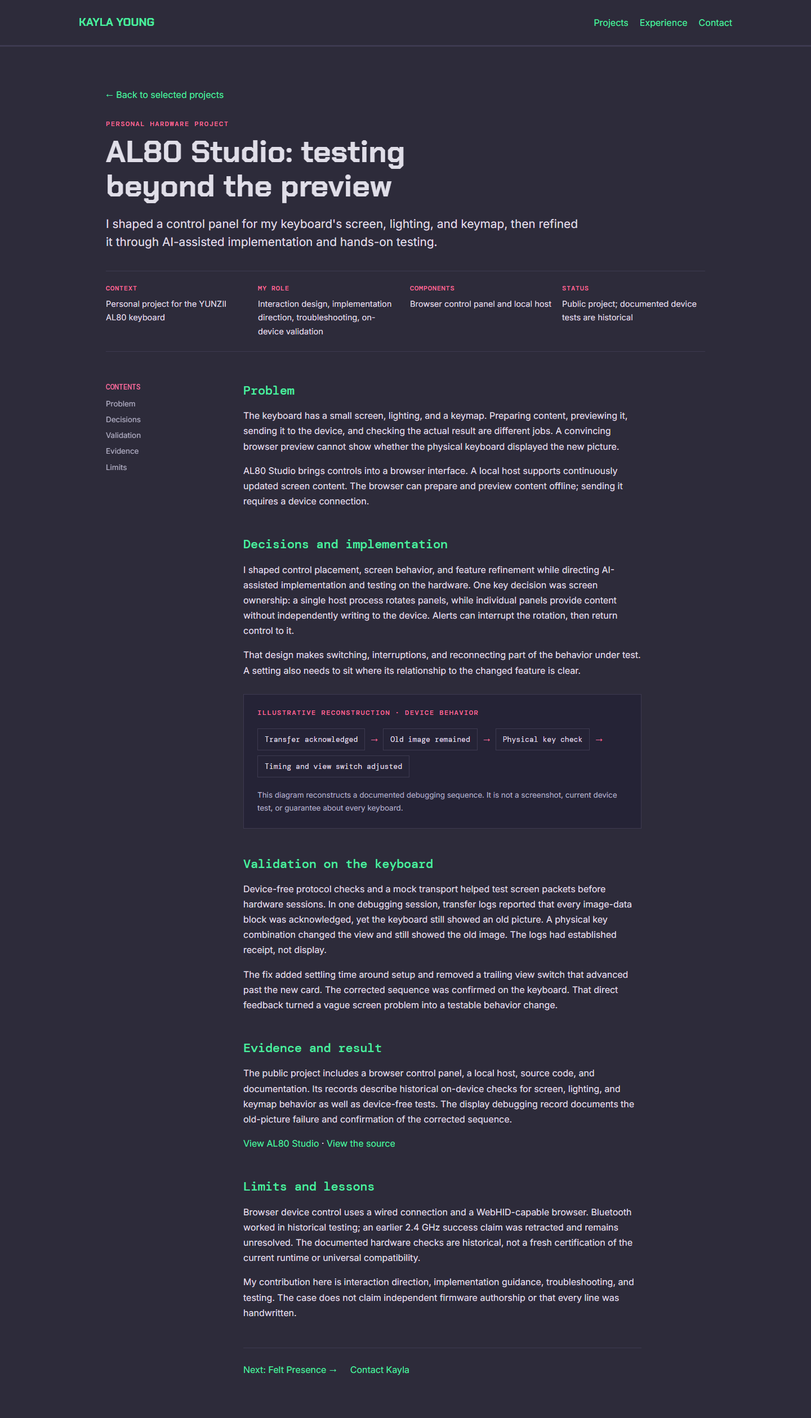
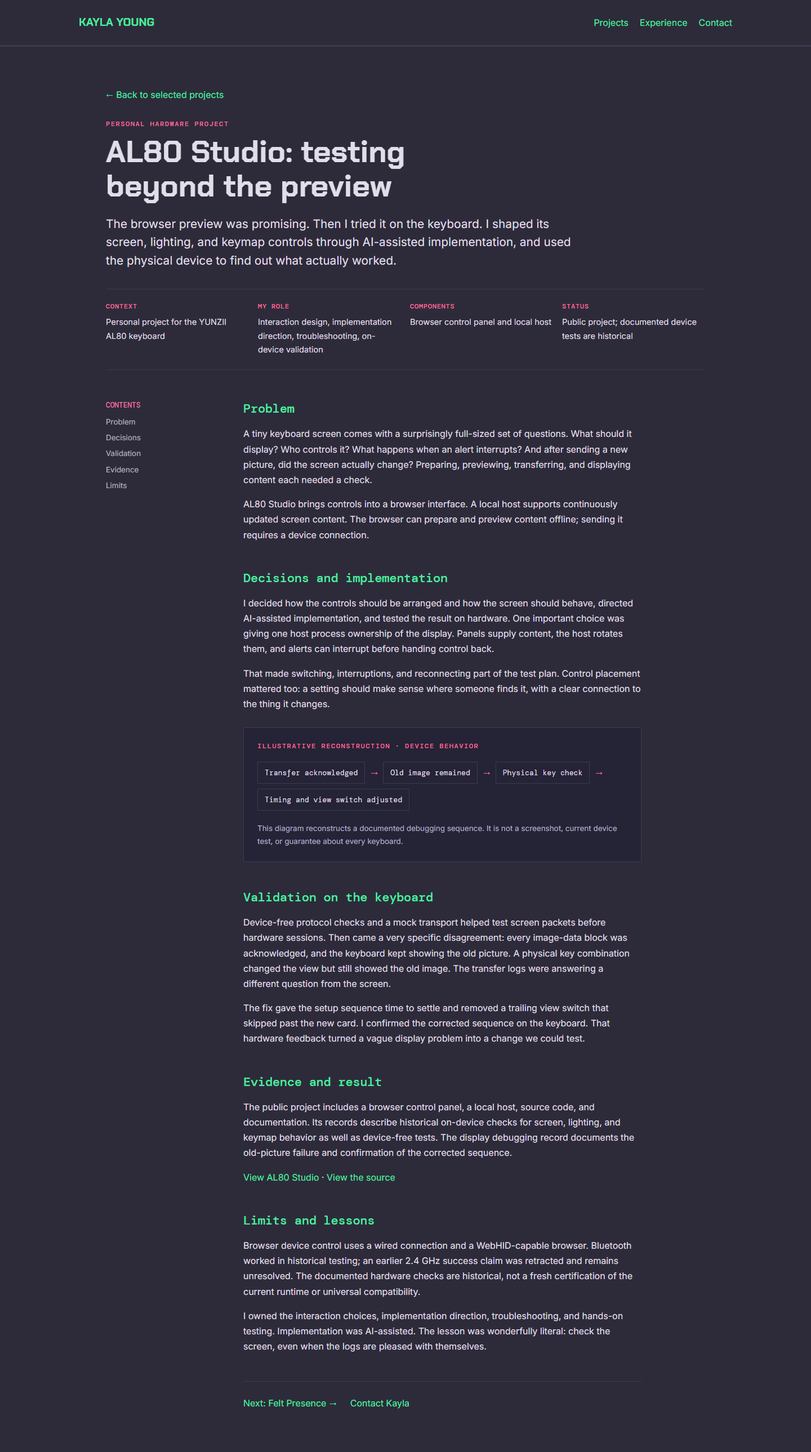
Carry confident and playful voice across portfolio and site

Changed region(s): [[0.2812, 0.2787, 0.7812, 0.9289], [0.125, 0.0619, 0.7812, 0.3406]]

diff --git a/portfolio/index.html b/portfolio/index.html
@@ -3,9 +3,9 @@
 <head>
 <meta charset="UTF-8">
 <meta name="viewport" content="width=device-width, initial-scale=1.0">
-<meta name="description" content="Kayla Young, Senior QA Engineer. Personal AI-assisted workflows, a story reader, and hands-on hardware projects.">
+<meta name="description" content="Kayla Young, Senior QA Engineer. Debugging complex software, designing AI-assisted workflows, and making useful tools with a little personality.">
 <meta property="og:title" content="Kayla Young | Senior QA Engineer">
-<meta property="og:description" content="Selected personal workflows and creative projects, with the decisions and checks behind them.">
+<meta property="og:description" content="QA investigations, AI-assisted internal tools, and creative projects. The decisions, debugging, and real-world checks behind the work.">
 <meta property="og:url" content="https://snackdriven.com/portfolio/">
 <meta property="og:type" content="website">
 <meta property="og:image" content="https://snackdriven.com/og-image.png">
@@ -39,20 +39,20 @@
 <main id="main-content">
 <section class="section" aria-labelledby="about-heading">
   <div class="section-label"><span class="section-number">01</span><h2 class="section-name" id="about-heading">About</h2></div>
-  <div class="section-content"><p class="about-text">I investigate how software behaves, shape tools around repetitive work, and build small creative experiences. Across QA, AI-assisted workflows, and personal projects, I define the behavior, direct implementation, test the result, and refine it against real use.</p></div>
+  <div class="section-content"><p class="about-text">I debug software for a living. This has done very little to discourage me from making more of it.</p><p class="about-text">With 6+ years in QA, I turn recurring headaches into practical workflows and shape projects with a little personality. I define the behavior, direct AI-assisted implementation, test the result, and refine it against real use. That might mean tracking down a data-persistence failure, rethinking a Kanban board, or deciding how unruly a haunted craft shop’s vines should be.</p></div>
 </section>
 <section class="section print-hide" id="selected-projects" aria-labelledby="projects-heading">
   <div class="section-label"><span class="section-number">02</span><h2 class="section-name" id="projects-heading">Selected Projects</h2></div>
   <div class="section-content projects-content">
-    <p class="projects-intro">I shape tools and experiences around how they’ll actually be used, from AI-assisted workflows to small creative projects. These projects show how I turn an idea into something usable, make the rough edges specific, and refine what does not fit.</p>
+    <p class="projects-intro">These are projects I’ve shaped, tried, debugged, and changed. Each case study follows a real decision: what needed to work, what got in the way, and how I checked the result.</p>
     <div class="project-list">
       <article class="project">
         <div class="project-num">01</div><div>
           <p class="project-tech">Personal QA tooling</p>
           <h3 class="project-name">Personal QA Workflow</h3>
           <p class="project-impact">Turning scattered context into work that’s ready to test.</p>
-          <p class="project-desc">I shaped a personal workflow that brings ticket context, prior findings, and release information into useful preparation packets. Through AI-assisted implementation and testing, I refined how work moves through the board, how missing context appears, and how findings are reviewed before handoff.</p>
-          <p class="project-impact">Pipeline stages replaced ownership lanes after use exposed a poor fit. Historical release documents from the wider workflow were used by colleagues.</p>
+          <p class="project-desc">Before the first test, there’s usually some detective work. I designed runbooks that bring ticket context, prior findings, and release information together, with missing inputs clearly flagged. I directed AI-assisted implementation and refined the board and review steps against real tasks.</p>
+          <p class="project-impact">A Kanban redesign that shows how work moves, plus historical release updates used by colleagues.</p>
           <p class="project-context">Workflow design · Tool configuration · Testing and refinement</p>
           <a class="project-link" href="projects/qa-workflow.html">Read the QA workflow case study <span aria-hidden="true">&rarr;</span></a>
         </div>
@@ -61,8 +61,8 @@
         <div class="project-num">02</div><div>
           <p class="project-tech">Personal hardware project</p>
           <h3 class="project-name">AL80 Studio: testing beyond the preview</h3>
-          <p class="project-desc">I shaped a control panel for my keyboard’s screen, lighting, and keymap through AI-assisted implementation and hands-on hardware testing. I refined control placement, screen ownership, and switching behavior against what the keyboard actually did.</p>
-          <p class="project-impact">Browser interface, local host, and a documented display fix confirmed on the keyboard.</p>
+          <p class="project-desc">The transfer logs said success. The keyboard kept the old picture. I shaped a control panel for its screen, lighting, and keymap, then used hands-on testing to refine the AI-assisted implementation and track down the display behavior.</p>
+          <p class="project-impact">Timing and view-switch fixes confirmed on the physical keyboard.</p>
           <p class="project-context">Interaction design · Troubleshooting · On-device validation</p>
           <a class="project-link" href="projects/al80-studio.html">Read the AL80 Studio case study <span aria-hidden="true">&rarr;</span></a>
           <a class="project-link project-link-secondary" href="https://snackdriven.github.io/al80-studio/">View the public project <span aria-hidden="true">&rarr;</span></a>
@@ -72,8 +72,8 @@
         <div class="project-num">03</div><div>
           <p class="project-tech">Personal creative project</p>
           <h3 class="project-name">Felt Presence: shaping a story reader</h3>
-          <p class="project-desc">For a fictional haunted craft shop, I directed the feel of an illustrated letter reader and refined its details through AI-assisted implementation. I asked for seasonal changes, stamps, and vines across the blank edges, then checked the result for visual balance and a page that fit before the letter opened.</p>
-          <p class="project-impact">A public reader shaped through concrete visual decisions and use checks.</p>
+          <p class="project-desc">A haunted craft shop needs atmosphere. Its letters still need to be readable. I shaped an illustrated reader through AI-assisted implementation, refining seasonal details, stamps, and wandering vines alongside the layout and reading flow.</p>
+          <p class="project-impact">A public reader with room for both the story and the slightly unruly greenery.</p>
           <p class="project-context">Creative direction · Experience requirements · Review and iteration</p>
           <a class="project-link" href="projects/felt-presence.html">Read the Felt Presence case study <span aria-hidden="true">&rarr;</span></a>
           <a class="project-link project-link-secondary" href="https://felt-presence.snackdriven.com/">View the public reader <span aria-hidden="true">&rarr;</span></a>
@@ -89,10 +89,10 @@
     <div class="job">
       <div class="job-header"><span class="job-company">Chorus Innovations</span><span class="job-separator">&middot;</span><span class="job-tenure">Apr 2023 &ndash; Present · Remote</span></div>
       <div class="job-sub"><div class="job-sub-header"><span class="job-role">Senior QA Engineer</span><span class="job-period-inline">Sep 2026 &ndash; Present</span></div>
-        <ul class="job-highlights"><li>Directed a four-day AI-assisted staging investigation. Organized 250 documented findings into 23 recurring patterns, prioritized data risks, and made coverage limits visible in the readout.</li><li>Designed personal tools and workflows for QA preparation, investigation, and evidence review. Historical release documents produced through one workflow were used by colleagues.</li></ul>
+        <ul class="job-highlights"><li>Directed a platform-wide, four-day AI-assisted staging investigation. Reviewed evidence for 250 documented findings and organized them into 23 recurring failure patterns to prioritize data risks. Kept coverage limits visible in the readout.</li></ul>
       </div>
       <div class="job-sub"><div class="job-sub-header"><span class="job-role">Senior QA Specialist</span><span class="job-period-inline">Sep 2024 &ndash; Sep 2026</span></div>
-        <ul class="job-highlights"><li>Tested complex workflows and developed reusable documentation, checklists, and tools around recurring QA work.</li></ul>
+        <ul class="job-highlights"><li>Investigated failures in conditional forms, role-based workflows, and data persistence across save and refresh cycles.</li><li>Designed a personal release-reporting workflow that combined Jira status, GitHub pull requests, and release discussions into Google Docs and Confluence updates used by colleagues. The automation was later retired.</li></ul>
       </div>
       <div class="job-sub"><div class="job-sub-header"><span class="job-role">Software QA Specialist</span><span class="job-period-inline">Apr 2023 &ndash; Sep 2024</span></div>
         <ul class="job-highlights"><li>Tested applications across a React and GraphQL stack and a legacy no-code platform.</li></ul>
@@ -101,9 +101,9 @@
     <div class="job">
       <div class="job-header"><span class="job-company">Ultranauts Inc</span><span class="job-separator">&middot;</span><span class="job-tenure">Feb 2020 &ndash; Feb 2023 · Remote</span></div>
       <div class="job-sub"><div class="job-sub-header"><span class="job-role">Software Quality Engineer II</span><span class="job-period-inline">Oct 2021 &ndash; Feb 2023</span></div>
-        <ul class="job-highlights"><li>Scoped exploratory and regression coverage across client products with multi-role workflows and complex business rules.</li><li>Assessed where automation would provide useful coverage and where its maintenance cost called for another approach.</li></ul>
+        <ul class="job-highlights"><li>Planned exploratory and regression testing for multi-role workflows and complex business rules.</li><li>Identified where automation would justify its maintenance cost and where another approach made more sense.</li></ul>
       </div>
-      <div class="job-sub print-hide"><div class="job-sub-header"><span class="job-role">SQA Engineer I &amp; Tester</span><span class="job-period-inline">Feb 2020 &ndash; Sep 2021</span></div>
+      <div class="job-sub print-hide"><div class="job-sub-header"><span class="job-role">QA Tester / Software QA Engineer I</span><span class="job-period-inline">Feb 2020 &ndash; Sep 2021</span></div>
         <ul class="job-highlights"><li>Manual and exploratory testing across multiple client projects.</li></ul>
       </div>
     </div>
@@ -113,15 +113,15 @@
   <div class="section-label"><span class="section-number">04</span><h2 class="section-name" id="stack-heading">Stack</h2></div>
   <div class="section-content stack-content">
     <div class="skills-grid">
-      <div class="skills-category"><h3 class="skills-category-name">Implementation</h3><ul class="skills-list"><li>AI-assisted implementation</li><li>Tool configuration</li><li>Testing and refinement</li></ul></div>
-      <div class="skills-category"><h3 class="skills-category-name">Workflows &amp; APIs</h3><ul class="skills-list"><li>Agentic workflows</li><li>Claude and Gemini APIs</li><li>MCP and GraphQL</li></ul></div>
-      <div class="skills-category"><h3 class="skills-category-name">Testing &amp; Toolchain</h3><ul class="skills-list"><li>Playwright, Selenium, Cypress</li><li>Git, Jira, GitHub Actions</li><li>Docker, Jenkins, Kubernetes</li></ul></div>
+      <div class="skills-category"><h3 class="skills-category-name">AI Workflows</h3><ul class="skills-list"><li>Workflow design and orchestration</li><li>AI-assisted implementation</li><li>Output verification and tool configuration</li></ul></div>
+      <div class="skills-category"><h3 class="skills-category-name">Quality &amp; Debugging</h3><ul class="skills-list"><li>Exploratory and regression testing</li><li>Defect investigation and test planning</li><li>Evidence review and risk prioritization</li></ul></div>
+      <div class="skills-category"><h3 class="skills-category-name">Tools &amp; Technologies</h3><ul class="skills-list"><li>Playwright for AI-assisted investigation</li><li>Git, Jira, GitHub Actions, GraphQL</li><li>Model Context Protocol (MCP)</li><li>SQL familiarity</li></ul></div>
     </div>
   </div>
 </section>
 <section class="section print-hide" id="section-target" aria-labelledby="looking-heading">
   <div class="section-label"><span class="section-number">05</span><h2 class="section-name" id="looking-heading">Looking For</h2></div>
-  <div class="section-content"><p class="about-text">I'm interested in internal tools, AI workflow implementation, and QA roles with room to build practical systems around the work. I'm based in Arkansas and looking for fully remote work.</p>
+  <div class="section-content"><p class="about-text">Give me a workflow that keeps tripping people up, a tool with an awkward edge, or software that behaves differently from its promises. I like shaping the solution, trying it, and making it better.</p><p class="about-text">I'm interested in hands-on AI workflow and internal-tool roles grounded in QA judgment, and QA roles with room to build. Based in Arkansas; looking for fully remote work.</p>
   <p class="contact-links"><a href="mailto:kayla@snackdriven.com">Email Kayla</a> · <a href="resume/kayla-young-resume.pdf">Résumé PDF</a></p></div>
 </section>
 </main>

diff --git a/portfolio/projects/qa-workflow.html b/portfolio/projects/qa-workflow.html
@@ -16,18 +16,18 @@
 <a class="back-link" href="/portfolio/#selected-projects">&larr; Back to selected projects</a>
 <p class="case-kicker">Personal QA tooling</p>
 <h1>Turning scattered context into reviewable QA work</h1>
-<p class="case-lead">I shaped a personal workflow system that brings ticket context, prior findings, and release information into the preparation and review of QA work.</p>
+<p class="case-lead">Before the first test came the scavenger hunt. I designed a personal workflow that brings ticket context, prior findings, and release information into runbooks I could actually work from.</p>
 <dl class="case-facts"><div><dt>Context</dt><dd>Personal tooling for my QA work</dd></div><div><dt>My role</dt><dd>Workflow design, tool configuration, AI-assisted implementation direction, testing</dd></div><div><dt>Evidence</dt><dd>Ticket-specific runbooks and historical release documents used by colleagues</dd></div><div><dt>Status</dt><dd>Workflows evolved; release-documentation automation retired</dd></div></dl>
 <div class="case-layout">
 <nav class="contents" aria-label="On this page"><h2>Contents</h2><a href="#problem">Problem</a><a href="#decisions">Decisions</a><a href="#validation">Validation</a><a href="#evidence">Evidence</a><a href="#limits">Limits</a></nav>
 <article class="case-body">
-<section id="problem"><h2>Problem</h2><p>QA work often starts before the first test. The relevant context can sit across a ticket, a code change, a discussion, a previous finding, and release information. Reassembling it for each task takes attention away from the investigation.</p><p>I wanted a preparation packet I could work from: behavior under test, relevant history, likely regression areas, and an honest account of anything the system could not retrieve.</p></section>
-<section id="decisions"><h2>Decisions and implementation</h2><p>I defined the workflow behavior, configured the tools, directed AI-assisted implementation, and refined the results against real tasks. Related pieces included preparation and investigation tools, ticket-specific runbooks, evidence-review views, and practices for shared artifacts. They support one personal workflow rather than separate headline products.</p><p>The central rule was that an unavailable source must remain visibly unavailable. It cannot become an empty result that implies nothing relevant exists. I also kept preparation, investigation, independent review, and a human decision as separate steps.</p>
+<section id="problem"><h2>Problem</h2><p>A ticket rarely arrives with everything needed to test it. The useful context might be in a code change, an old finding, a discussion, or a release note. I kept having to reconstruct the task before I could investigate it.</p><p>I wanted that groundwork in one usable packet: what should happen, what had gone wrong before, where to look for regressions, and which sources the system could not check. Missing context needed a label, not a confident guess.</p></section>
+<section id="decisions"><h2>Decisions and implementation</h2><p>I defined the behavior, configured the tools, and directed AI-assisted implementation. Then I tried the results on real tasks. Runbooks, investigation tools, evidence-review views, and shared-artifact practices became parts of the same workflow, each with a job to earn.</p><p>The central rule was simple: say when a source could not be checked. An unavailable system and an empty result mean different things. Preparation, investigation, independent review, and the human decision also stayed separate, so a finished packet could not quietly become a finished test.</p>
 <figure><p class="figure-label">Illustrative reconstruction · No workplace data</p><div class="flow" aria-label="Source context leads to preparation, investigation, independent review, and a human decision"><span>Source context</span><b aria-hidden="true">&rarr;</b><span>Preparation</span><b aria-hidden="true">&rarr;</b><span>Investigation</span><b aria-hidden="true">&rarr;</b><span>Independent review</span><b aria-hidden="true">&rarr;</b><span>Human decision</span></div><div class="reconstruction"><div><strong>Retrieved</strong>Relevant prior behavior is attached to the packet.</div><div><strong>Unavailable</strong>One source could not be checked; the packet says so.</div><div><strong>Open coverage</strong>A persistence check still needs a real save and readback.</div></div><figcaption>A fictional packet shows the three states a reviewer needs to distinguish. It is a diagram of the workflow, not a screenshot or evidence of a specific ticket.</figcaption></figure>
-<p>For shared outputs, I used review before external action, one writer for the current artifact, and recovery steps when work stopped partway through. These were practices to test and revise as the tools changed.</p><p>The QA Kanban view also changed after use: ownership-based lanes gave way to pipeline stages so the board could show how work moved. Stale, missing, disconnected, and genuinely empty data needed distinct states. I removed believable sample cards from the live cold-start view so examples could not look like actual work.</p></section>
-<section id="validation"><h2>Validation and refinement</h2><p>Real use exposed gaps. In one review, shortened comment text overstated what the investigation notes supported. I changed the review step to compare each claim against the underlying notes before the comment went out. A polished summary only helps when its claims still match the evidence.</p><p>I also asked for additional random trials after a repaired pilot passed its initial sample. When a separate impact viewer went unused, I moved its information into an existing work surface. A parallel-work pipeline was retired when its overhead did not earn a place in the workflow.</p></section>
-<section id="evidence"><h2>Evidence and output</h2><p>The system produced ticket-specific runbooks and review views. A historical release-documentation workflow assembled scope, status, and merge information into stakeholder documents distributed through Google Docs and Confluence. Colleagues used those documents.</p><p>My QA acceptance verdicts in those documents were user-authored. The surrounding prose was generated or aggregated through the AI-assisted workflow. Use of the documents does not imply coworkers installed or adopted the underlying tools.</p></section>
-<section id="limits"><h2>Limits and lessons</h2><p>This was personal tooling, not organization-wide infrastructure. The release-documentation automation was later retired. Its useful output also revealed maintenance issues, including stale information and environment distinctions that needed correction.</p><p>The practical test for a packet is whether I can begin work from it and see what it has not checked. That is why the review and missing-input states matter as much as the retrieval itself.</p></section>
+<p>For shared outputs, I used review before external action, one writer for the current artifact, and recovery steps when work stopped partway through. These were practices to test and revise as the tools changed.</p><p>The Kanban board got a rethink too. Ownership lanes looked organized but did a poor job of showing progress, so I changed them to pipeline stages. Stale, missing, disconnected, and empty data each needed their own state. I also removed convincing sample cards from the live starting view. Fictional work should not look ready to pick up.</p></section>
+<section id="validation"><h2>Validation and refinement</h2><p>One review caught a small-looking change with a large consequence: shortening a comment had made its claims stronger than the investigation notes. I changed the review step to compare each claim with its source before the comment went out. Brevity had to keep the facts attached.</p><p>A repaired pilot passing its original sample was a good start; I asked for more random trials. An impact viewer went unused, so its information moved into a surface I already used. A parallel-work pipeline was retired when its overhead outweighed its help. Sometimes the useful improvement was one less thing to maintain.</p></section>
+<section id="evidence"><h2>Evidence and output</h2><p>The workflow produced ticket-specific runbooks and review views. Its historical release-reporting tools brought Jira status, GitHub pull requests, and release discussions into scope and merge updates distributed through Google Docs and Confluence. Colleagues used those documents to follow the release.</p><p>I wrote the QA acceptance verdicts. The surrounding prose was generated or aggregated through the AI-assisted workflow. The shared output was the document; the tools remained personally operated.</p></section>
+<section id="limits"><h2>Limits and lessons</h2><p>These were tools I operated for my QA work. The release-documentation automation was later retired, and its history includes stale information and environment distinctions that needed correction. Useful output still needed upkeep.</p><p>The test I keep coming back to: can I start work from this packet, and can I see where its knowledge runs out? Retrieval, review, and honest gaps all have to work together.</p></section>
 <footer class="case-footer"><a href="al80-studio.html">Next: AL80 Studio &rarr;</a><a href="mailto:kayla@snackdriven.com">Contact Kayla</a></footer>
 </article></div></main>
 </body></html>

diff --git a/portfolio/projects/platform-investigation.html b/portfolio/projects/platform-investigation.html
@@ -16,19 +16,19 @@
 <a class="back-link" href="/portfolio/#selected-projects">&larr; Back to selected projects</a>
 <p class="case-kicker">Professional QA investigation</p>
 <h1>Making a platform-wide QA investigation usable</h1>
-<p class="case-lead">I directed and checked an AI-assisted staging investigation, then organized the findings around recurring patterns, data risks, and unresolved decisions.</p>
+<p class="case-lead">A platform-wide investigation needs a useful ending. I directed an AI-assisted staging pass, reviewed the evidence, and turned a large set of findings into patterns, data risks, and decisions for product and engineering.</p>
 <dl class="case-facts"><div><dt>Scope</dt><dd>Four-day staging pass; one QA account, Chromium, seeded data</dd></div><div><dt>My role</dt><dd>Test strategy, investigation direction, evidence review, reporting</dd></div><div><dt>Findings</dt><dd>250 documented findings in 23 recurring patterns</dd></div><div><dt>Handoff</dt><dd>Five decisions routed to product and engineering owners</dd></div></dl>
 <div class="case-layout">
 <nav class="contents" aria-label="On this page"><h2>Contents</h2><a href="#problem">Problem</a><a href="#decisions">Decisions</a><a href="#validation">Validation</a><a href="#evidence">Evidence</a><a href="#limits">Limits</a></nav>
 <article class="case-body">
-<section id="problem"><h2>Problem</h2><p>A new platform had reached staging before launch decisions. An undifferentiated issue list would not tell readers which observations threatened data, which appeared to share a cause, or where intended behavior still needed a product decision.</p><p>The investigation needed a readout that made those relationships visible, along with the limits of what had actually been tested.</p></section>
-<section id="decisions"><h2>Decisions and implementation</h2><p>I organized the pass across application sections, administration settings, and cross-page behavior. I directed AI-assisted browser harnesses and checked their work. The investigation looked beyond an initial save to refresh, stale forms, repeated actions, and state changes elsewhere.</p><p>I grouped the 250 documented findings into 23 patterns and prioritized data risks for the handoff. The readout separated observed behavior from questions about intended behavior. Five unresolved decisions went to product and engineering owners.</p>
+<section id="problem"><h2>Problem</h2><p>A new platform had reached staging ahead of launch decisions. The team needed to know which observations threatened data, which appeared connected, and which depended on a product decision about intended behavior. A long list of issues would leave that sorting work to the reader.</p><p>My job was to make the investigation usable: show the relationships, prioritize the risks, and be clear about where coverage stopped.</p></section>
+<section id="decisions"><h2>Decisions and implementation</h2><p>I organized the pass across application sections, administration settings, and cross-page behavior. I directed AI-assisted browser harnesses and checked their work. A Save click was the beginning of the check: refresh, stale forms, repeated actions, and changes elsewhere could tell a different story.</p><p>I grouped the 250 documented findings into 23 patterns and prioritized data risks for the handoff. The readout separated observed behavior from questions about intended behavior. Five unresolved decisions went to product and engineering owners.</p>
 <figure><p class="figure-label">Illustrative reconstruction · No product data</p><div class="reconstruction"><div><strong>Finding</strong>A saved setting appears to revert after a refresh.</div><div><strong>Evidence needed</strong>Record the save, refresh, and readback as separate observations.</div><div><strong>Risk</strong>A user may rely on a state that did not persist.</div><div><strong>Open decision</strong>Who defines the intended persistence behavior?</div><div><strong>Untested scope</strong>Other accounts and devices are outside this pass.</div></div><figcaption>This fictional readout demonstrates the reporting structure. It is not a product screenshot or an actual finding.</figcaption></figure></section>
-<section id="validation"><h2>Validation and correction</h2><p>I used repeat checks and a second review that tried to disprove higher-impact findings. Some claims changed: configuration checks led to withdrawals, and one result moved to a flaky classification when a second run did not establish it. A persistence claim required a real save and readback before it could be stated as stored data.</p><p>The footage-to-description audit kept full matches separate from partial support and steps the recording did not show. A clip showing a Save click, for example, would not by itself prove persistence after reload.</p></section>
+<section id="validation"><h2>Validation and correction</h2><p>I repeated checks and used a second review to try to disprove the higher-impact findings. Configuration checks led to withdrawals, and one result became flaky when another run did not establish it. A claim about stored data needed an actual save and readback. Correcting a finding was part of the investigation.</p><p>The footage audit separated full matches, partial support, and steps the recording never showed. A video of a Save click proves the click. A persistence claim still needs the reload and readback.</p></section>
 <section id="evidence"><h2>Evidence and results</h2><p>The four-day pass produced 250 documented findings organized into 23 patterns. The readout highlighted 22 data risks covering 53 flagged issues and routed five unresolved decisions. It gave readers a prioritized summary with detailed evidence behind it.</p>
 <figure><p class="figure-label">Evidence audit · 314 rows</p><div class="audit-bar" role="img" aria-label="Of 314 evidence rows, 239 matched, 55 were partially supported, and 20 were not shown on video"><span></span><span></span><span></span></div><div class="audit-key"><span>239 matched</span><span>55 partial</span><span>20 not shown on video</span></div><figcaption>These 314 audit rows are evidence rows, not additional bugs. The split does not establish full video verification for every finding.</figcaption></figure>
-<p>The readout was circulated to engineering leadership. This case ends at investigation and handoff; it does not claim completed fixes.</p></section>
-<section id="limits"><h2>Limits and next pass</h2><p>Coverage used one QA account, Chromium, and seeded staging data. Two windows on one account did not establish cross-user behavior. The work did not establish cross-device behavior or full platform coverage.</p><p>A next pass could turn the recurring patterns into repeatable probes, include deferred coverage, and identify decision owners before testing begins. The documented findings guide that work; they do not replace it.</p></section>
+<p>The readout was circulated to engineering leadership. The result documented here is the investigation and handoff; completed fixes remain outside this case study.</p></section>
+<section id="limits"><h2>Limits and next pass</h2><p>Coverage used one QA account, Chromium, and seeded staging data. Two windows on one account did not establish cross-user behavior. The work did not establish cross-device behavior or full platform coverage.</p><p>The next useful move would be to turn those recurring patterns into repeatable probes, include the deferred coverage, and identify decision owners earlier. The findings give that pass a starting point, with the unfinished work still visible.</p></section>
 <footer class="case-footer"><a href="al80-studio.html">Next: AL80 Studio &rarr;</a><a href="mailto:kayla@snackdriven.com">Contact Kayla</a></footer>
 </article></div></main>
 </body></html>

diff --git a/portfolio/projects/al80-studio.html b/portfolio/projects/al80-studio.html
@@ -16,17 +16,17 @@
 <a class="back-link" href="/portfolio/#selected-projects">&larr; Back to selected projects</a>
 <p class="case-kicker">Personal hardware project</p>
 <h1>AL80 Studio: testing beyond the preview</h1>
-<p class="case-lead">I shaped a control panel for my keyboard's screen, lighting, and keymap, then refined it through AI-assisted implementation and hands-on testing.</p>
+<p class="case-lead">The browser preview was promising. Then I tried it on the keyboard. I shaped its screen, lighting, and keymap controls through AI-assisted implementation, and used the physical device to find out what actually worked.</p>
 <dl class="case-facts"><div><dt>Context</dt><dd>Personal project for the YUNZII AL80 keyboard</dd></div><div><dt>My role</dt><dd>Interaction design, implementation direction, troubleshooting, on-device validation</dd></div><div><dt>Components</dt><dd>Browser control panel and local host</dd></div><div><dt>Status</dt><dd>Public project; documented device tests are historical</dd></div></dl>
 <div class="case-layout">
 <nav class="contents" aria-label="On this page"><h2>Contents</h2><a href="#problem">Problem</a><a href="#decisions">Decisions</a><a href="#validation">Validation</a><a href="#evidence">Evidence</a><a href="#limits">Limits</a></nav>
 <article class="case-body">
-<section id="problem"><h2>Problem</h2><p>The keyboard has a small screen, lighting, and a keymap. Preparing content, previewing it, sending it to the device, and checking the actual result are different jobs. A convincing browser preview cannot show whether the physical keyboard displayed the new picture.</p><p>AL80 Studio brings controls into a browser interface. A local host supports continuously updated screen content. The browser can prepare and preview content offline; sending it requires a device connection.</p></section>
-<section id="decisions"><h2>Decisions and implementation</h2><p>I shaped control placement, screen behavior, and feature refinement while directing AI-assisted implementation and testing on the hardware. One key decision was screen ownership: a single host process rotates panels, while individual panels provide content without independently writing to the device. Alerts can interrupt the rotation, then return control to it.</p><p>That design makes switching, interruptions, and reconnecting part of the behavior under test. A setting also needs to sit where its relationship to the changed feature is clear.</p>
+<section id="problem"><h2>Problem</h2><p>A tiny keyboard screen comes with a surprisingly full-sized set of questions. What should it display? Who controls it? What happens when an alert interrupts? And after sending a new picture, did the screen actually change? Preparing, previewing, transferring, and displaying content each needed a check.</p><p>AL80 Studio brings controls into a browser interface. A local host supports continuously updated screen content. The browser can prepare and preview content offline; sending it requires a device connection.</p></section>
+<section id="decisions"><h2>Decisions and implementation</h2><p>I decided how the controls should be arranged and how the screen should behave, directed AI-assisted implementation, and tested the result on hardware. One important choice was giving one host process ownership of the display. Panels supply content, the host rotates them, and alerts can interrupt before handing control back.</p><p>That made switching, interruptions, and reconnecting part of the test plan. Control placement mattered too: a setting should make sense where someone finds it, with a clear connection to the thing it changes.</p>
 <figure><p class="figure-label">Illustrative reconstruction · Device behavior</p><div class="flow" aria-label="Transfer acknowledgment leads to a physical display check, then a timing and view-switch change"><span>Transfer acknowledged</span><b aria-hidden="true">&rarr;</b><span>Old image remained</span><b aria-hidden="true">&rarr;</b><span>Physical key check</span><b aria-hidden="true">&rarr;</b><span>Timing and view switch adjusted</span></div><figcaption>This diagram reconstructs a documented debugging sequence. It is not a screenshot, current device test, or guarantee about every keyboard.</figcaption></figure></section>
-<section id="validation"><h2>Validation on the keyboard</h2><p>Device-free protocol checks and a mock transport helped test screen packets before hardware sessions. In one debugging session, transfer logs reported that every image-data block was acknowledged, yet the keyboard still showed an old picture. A physical key combination changed the view and still showed the old image. The logs had established receipt, not display.</p><p>The fix added settling time around setup and removed a trailing view switch that advanced past the new card. The corrected sequence was confirmed on the keyboard. That direct feedback turned a vague screen problem into a testable behavior change.</p></section>
+<section id="validation"><h2>Validation on the keyboard</h2><p>Device-free protocol checks and a mock transport helped test screen packets before hardware sessions. Then came a very specific disagreement: every image-data block was acknowledged, and the keyboard kept showing the old picture. A physical key combination changed the view but still showed the old image. The transfer logs were answering a different question from the screen.</p><p>The fix gave the setup sequence time to settle and removed a trailing view switch that skipped past the new card. I confirmed the corrected sequence on the keyboard. That hardware feedback turned a vague display problem into a change we could test.</p></section>
 <section id="evidence"><h2>Evidence and result</h2><p>The public project includes a browser control panel, a local host, source code, and documentation. Its records describe historical on-device checks for screen, lighting, and keymap behavior as well as device-free tests. The display debugging record documents the old-picture failure and confirmation of the corrected sequence.</p><p><a href="https://snackdriven.github.io/al80-studio/">View AL80 Studio</a> · <a href="https://github.com/snackdriven/al80-studio">View the source</a></p></section>
-<section id="limits"><h2>Limits and lessons</h2><p>Browser device control uses a wired connection and a WebHID-capable browser. Bluetooth worked in historical testing; an earlier 2.4 GHz success claim was retracted and remains unresolved. The documented hardware checks are historical, not a fresh certification of the current runtime or universal compatibility.</p><p>My contribution here is interaction direction, implementation guidance, troubleshooting, and testing. The case does not claim independent firmware authorship or that every line was handwritten.</p></section>
+<section id="limits"><h2>Limits and lessons</h2><p>Browser device control uses a wired connection and a WebHID-capable browser. Bluetooth worked in historical testing; an earlier 2.4 GHz success claim was retracted and remains unresolved. The documented hardware checks are historical, not a fresh certification of the current runtime or universal compatibility.</p><p>I owned the interaction choices, implementation direction, troubleshooting, and hands-on testing. Implementation was AI-assisted. The lesson was wonderfully literal: check the screen, even when the logs are pleased with themselves.</p></section>
 <footer class="case-footer"><a href="felt-presence.html">Next: Felt Presence &rarr;</a><a href="mailto:kayla@snackdriven.com">Contact Kayla</a></footer>
 </article></div></main>
 </body></html>

diff --git a/portfolio/projects/felt-presence.html b/portfolio/projects/felt-presence.html
@@ -16,17 +16,17 @@
 <a class="back-link" href="/portfolio/#selected-projects">&larr; Back to selected projects</a>
 <p class="case-kicker">Personal creative project</p>
 <h1>Felt Presence: shaping a story reader</h1>
-<p class="case-lead">I directed the experience of an illustrated letter reader for a fictional haunted craft shop, then refined its visual details and page behavior through review and AI-assisted implementation.</p>
+<p class="case-lead">A fictional haunted craft shop needed somewhere to send its letters. I shaped an illustrated reader with seasonal details, a little wandering greenery, and a reading flow that could hold the atmosphere together.</p>
 <dl class="case-facts"><div><dt>Context</dt><dd>Personal story and reader project</dd></div><div><dt>My role</dt><dd>Creative direction, experience requirements, implementation direction, review</dd></div><div><dt>Focus</dt><dd>Seasonal atmosphere, layout, and reading flow</dd></div><div><dt>Status</dt><dd><a href="https://felt-presence.snackdriven.com/">Public reader</a>; private source and story archive</dd></div></dl>
 <div class="case-layout">
 <nav class="contents" aria-label="On this page"><h2>Contents</h2><a href="#problem">Problem</a><a href="#decisions">Decisions</a><a href="#validation">Validation</a><a href="#evidence">Evidence</a><a href="#limits">Limits</a></nav>
 <article class="case-body">
-<section id="problem"><h2>Problem</h2><p>A letter from a tiny haunted craft shop needed a place to be read. I wanted the reader to carry the shop's handmade, seasonal character without making the page harder to use. The unopened letter and its illustration needed room to breathe, and the page needed to fit before the reader opened the letter.</p></section>
-<section id="decisions"><h2>Decisions and implementation</h2><p>I set the experience requirements and directed AI-assisted implementation. For the autumn version, I asked for stamps, vines across the blank edges, more transparency, and fall colors. The first vine treatment felt too symmetrical and too confined to the corners, so I asked for looser growth, including a curl around a lower corner.</p><p>I also wanted the date and time to have one clear home. Repeated labels competed with the letter, so I consolidated them and removed unwanted scrolling from the unopened view. These were choices about what a reader sees first and how easily they can reach the story.</p>
+<section id="problem"><h2>Problem</h2><p>The reader needed to feel like part of the shop: handmade, seasonal, and a little odd. It also needed to work as a page. The unopened letter and illustration needed room, and the opening view needed to fit without an unnecessary scroll. Even a haunted craft shop has layout requirements.</p></section>
+<section id="decisions"><h2>Decisions and implementation</h2><p>I set the experience requirements and directed AI-assisted implementation. For autumn, that meant stamps, fall colors, and vines reaching into the blank edges. The first vines were very well behaved: symmetrical and tucked into corners. I asked for looser growth, softer transparency, and a curl around a lower corner.</p><p>The date and time needed one clear home. I consolidated repeated labels and removed the extra scroll in the unopened view, so the letter could be the first thing a reader noticed. The decorative decisions had to survive the actual opening and reading flow.</p>
 <figure><p class="figure-label">Illustrative reconstruction · No private story art</p><div class="reconstruction"><div><strong>Decision</strong>Let seasonal details reach the blank edges without crowding the letter.</div><div><strong>Iteration</strong>Reduce symmetry, soften the vines, and add warmer fall color.</div><div><strong>Check</strong>Review the unopened page at its intended size and remove scrolling that interrupted the opening view.</div></div><figcaption>This diagram summarizes a documented design cycle. It is not a screenshot of the reader or an example of private artwork.</figcaption></figure></section>
-<section id="validation"><h2>Validation and refinement</h2><p>I reviewed the page as an experience rather than treating each visual element as a separate deliverable. The vines needed to feel present across the empty space, but the letter still had to remain the focus. I checked the layout before opening a letter, caught the extra scroll, and asked for the date and time to be consolidated.</p><p>The result came from a sequence of specific requests, review, and correction. The check was whether the reader felt coherent and usable, not whether a first generated version looked decorative.</p></section>
+<section id="validation"><h2>Validation and refinement</h2><p>I checked the whole experience: the unopened page, the moment of opening, and the letter itself. The vines needed enough presence to feel intentional while leaving the story in charge. That review caught the extra scroll and competing date and time labels.</p><p>The progress came from specific requests, looking at the result, and asking for another change. A convincing first image was only the beginning. The page still had to feel coherent while someone used it.</p></section>
 <section id="evidence"><h2>Evidence and result</h2><p>The public reader presents illustrated letters from the fictional shop. It provides a direct way to see the reading experience described here: <a href="https://felt-presence.snackdriven.com/">visit Felt Presence</a>.</p><p>My documented decisions include the seasonal treatment, stamps, vine placement and transparency, less symmetrical composition, removal of the unwanted initial scroll, and consolidation of date and time.</p></section>
-<section id="limits"><h2>Limits and lessons</h2><p>The source archive and original art references are private. This case uses a labeled diagram instead of copying story assets or presenting a reconstruction as an actual screen. My contribution is creative direction, requirements, implementation guidance, and iterative review. It does not imply that I hand-coded the reader or hold a professional design credential.</p><p>The lesson I keep from this work is practical: atmosphere lives in small decisions, and those decisions have to survive the actual reading flow.</p></section>
+<section id="limits"><h2>Limits and lessons</h2><p>The source archive and original art references are private, so the diagram here is explicitly labeled as a reconstruction. I owned the creative direction, experience requirements, implementation guidance, and iterative review; the implementation was AI-assisted.</p><p>Atmosphere lives in small decisions. Vine placement, a repeated timestamp, or one awkward scroll can change the whole feeling. Getting those details right is part of making the story readable.</p></section>
 <footer class="case-footer"><a href="qa-workflow.html">Next: QA workflow &rarr;</a><a href="mailto:kayla@snackdriven.com">Contact Kayla</a></footer>
 </article></div></main>
 </body></html>

diff --git a/eleventy.config.js b/eleventy.config.js
@@ -20,7 +20,7 @@ module.exports = function (eleventyConfig) {
     metadata: {
       language: "en",
       title: "snackdriven.com — the log",
-      subtitle: "Test automation by trade, and the log of every working tool I couldn't leave alone.",
+      subtitle: "Debugging by trade. Useful tools, odd little projects, and the decisions behind them.",
       base: "https://snackdriven.com/",
       author: { name: "Kayla Young" }
     }

diff --git a/portfolio/portfolio.css b/portfolio/portfolio.css
@@ -746,6 +746,7 @@
 .project-link-secondary { color: var(--fg); }
 .stack-content { max-width: none; width: 100%; }
 .contact-links { margin-top: 18px; }
+.section-content > .about-text + .about-text { margin-top: 16px; }
 .contact-links a { color: var(--green); text-decoration: underline; text-underline-offset: 3px; }
 a:focus-visible { outline: 3px solid var(--green); outline-offset: 4px; }
 @media (max-width: 600px) {
